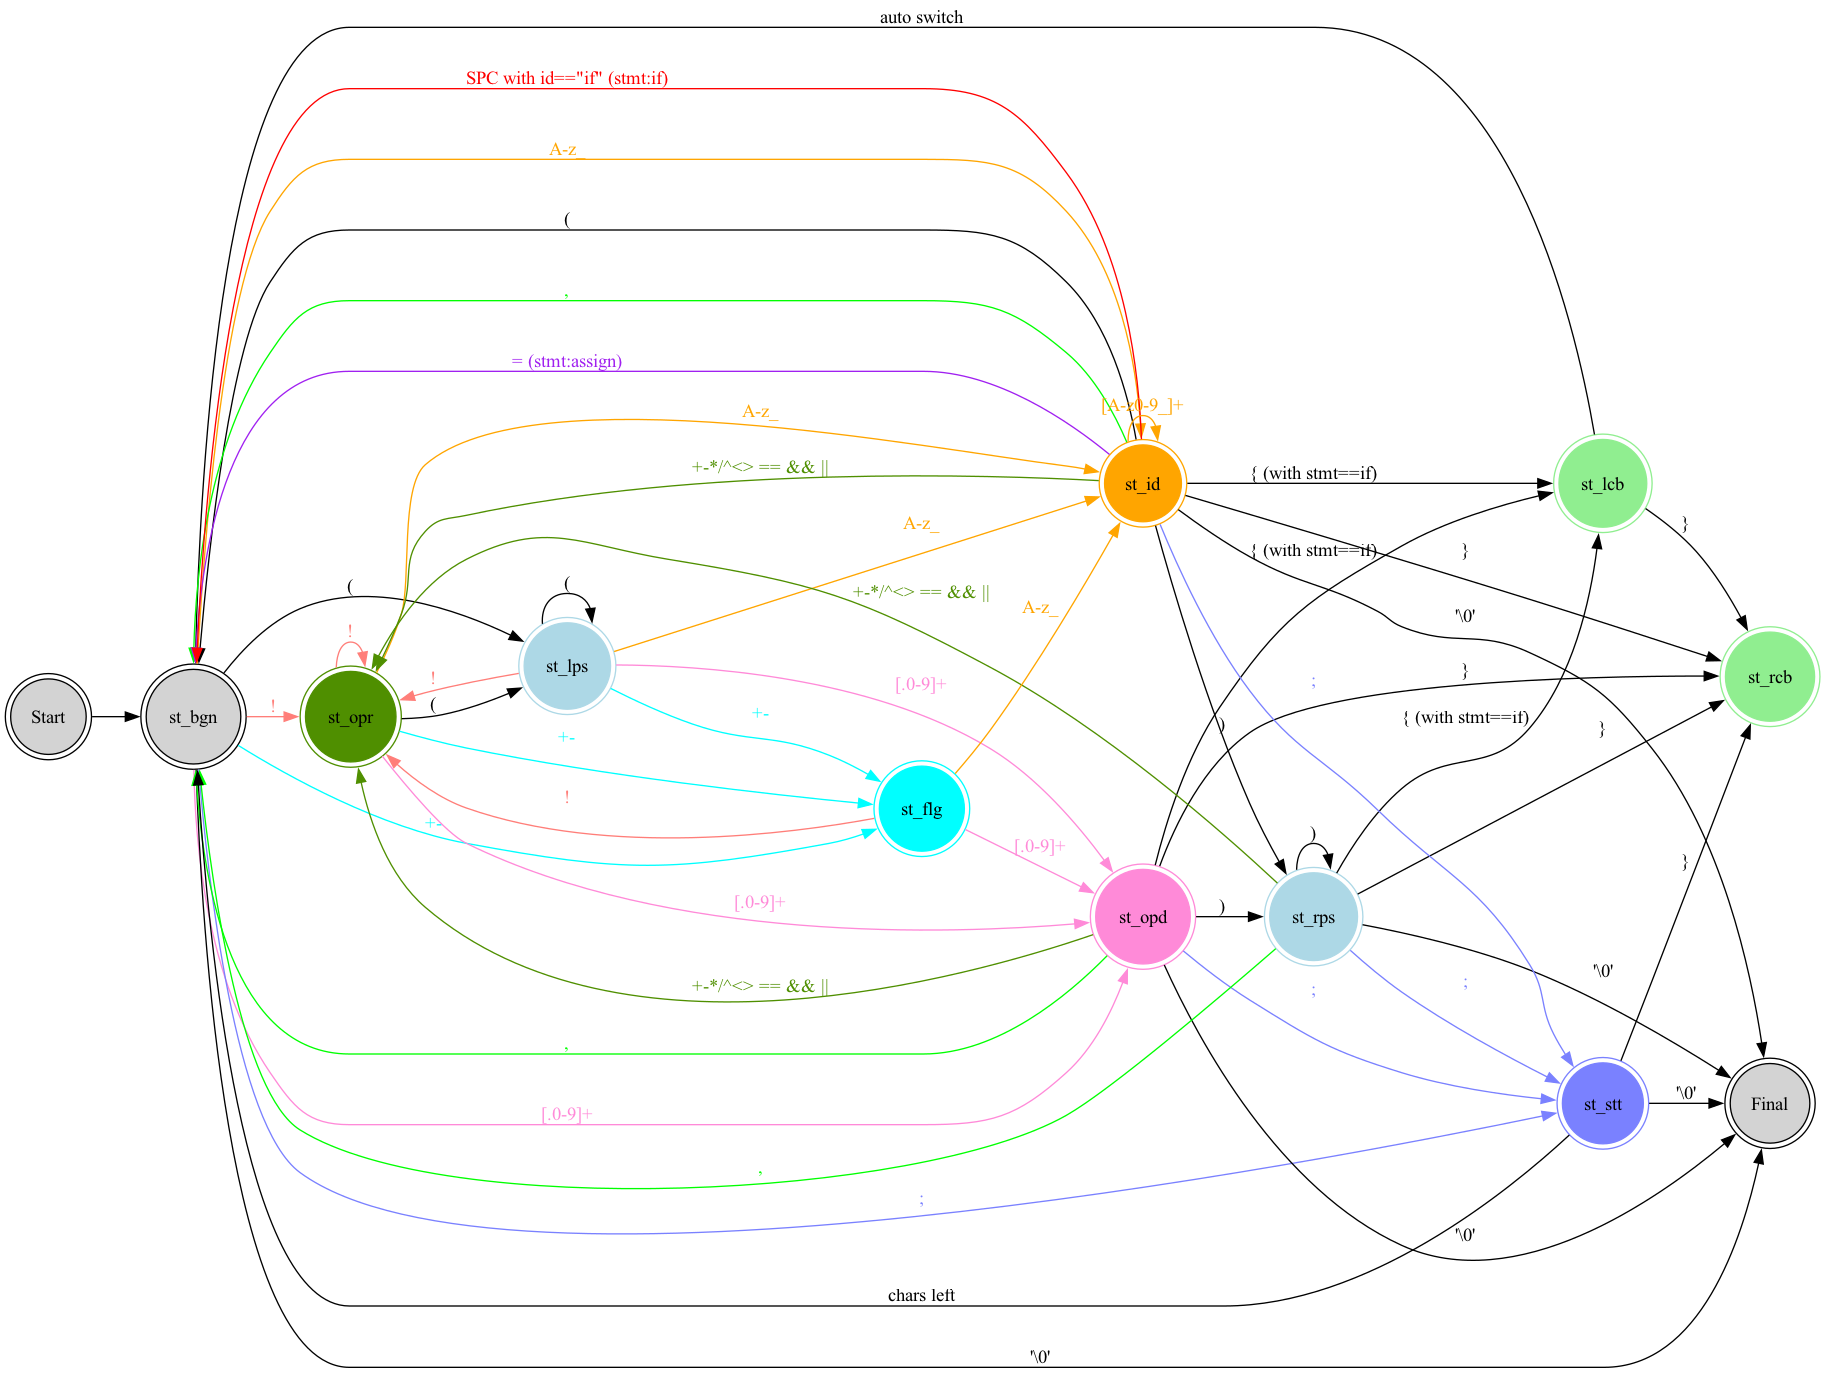
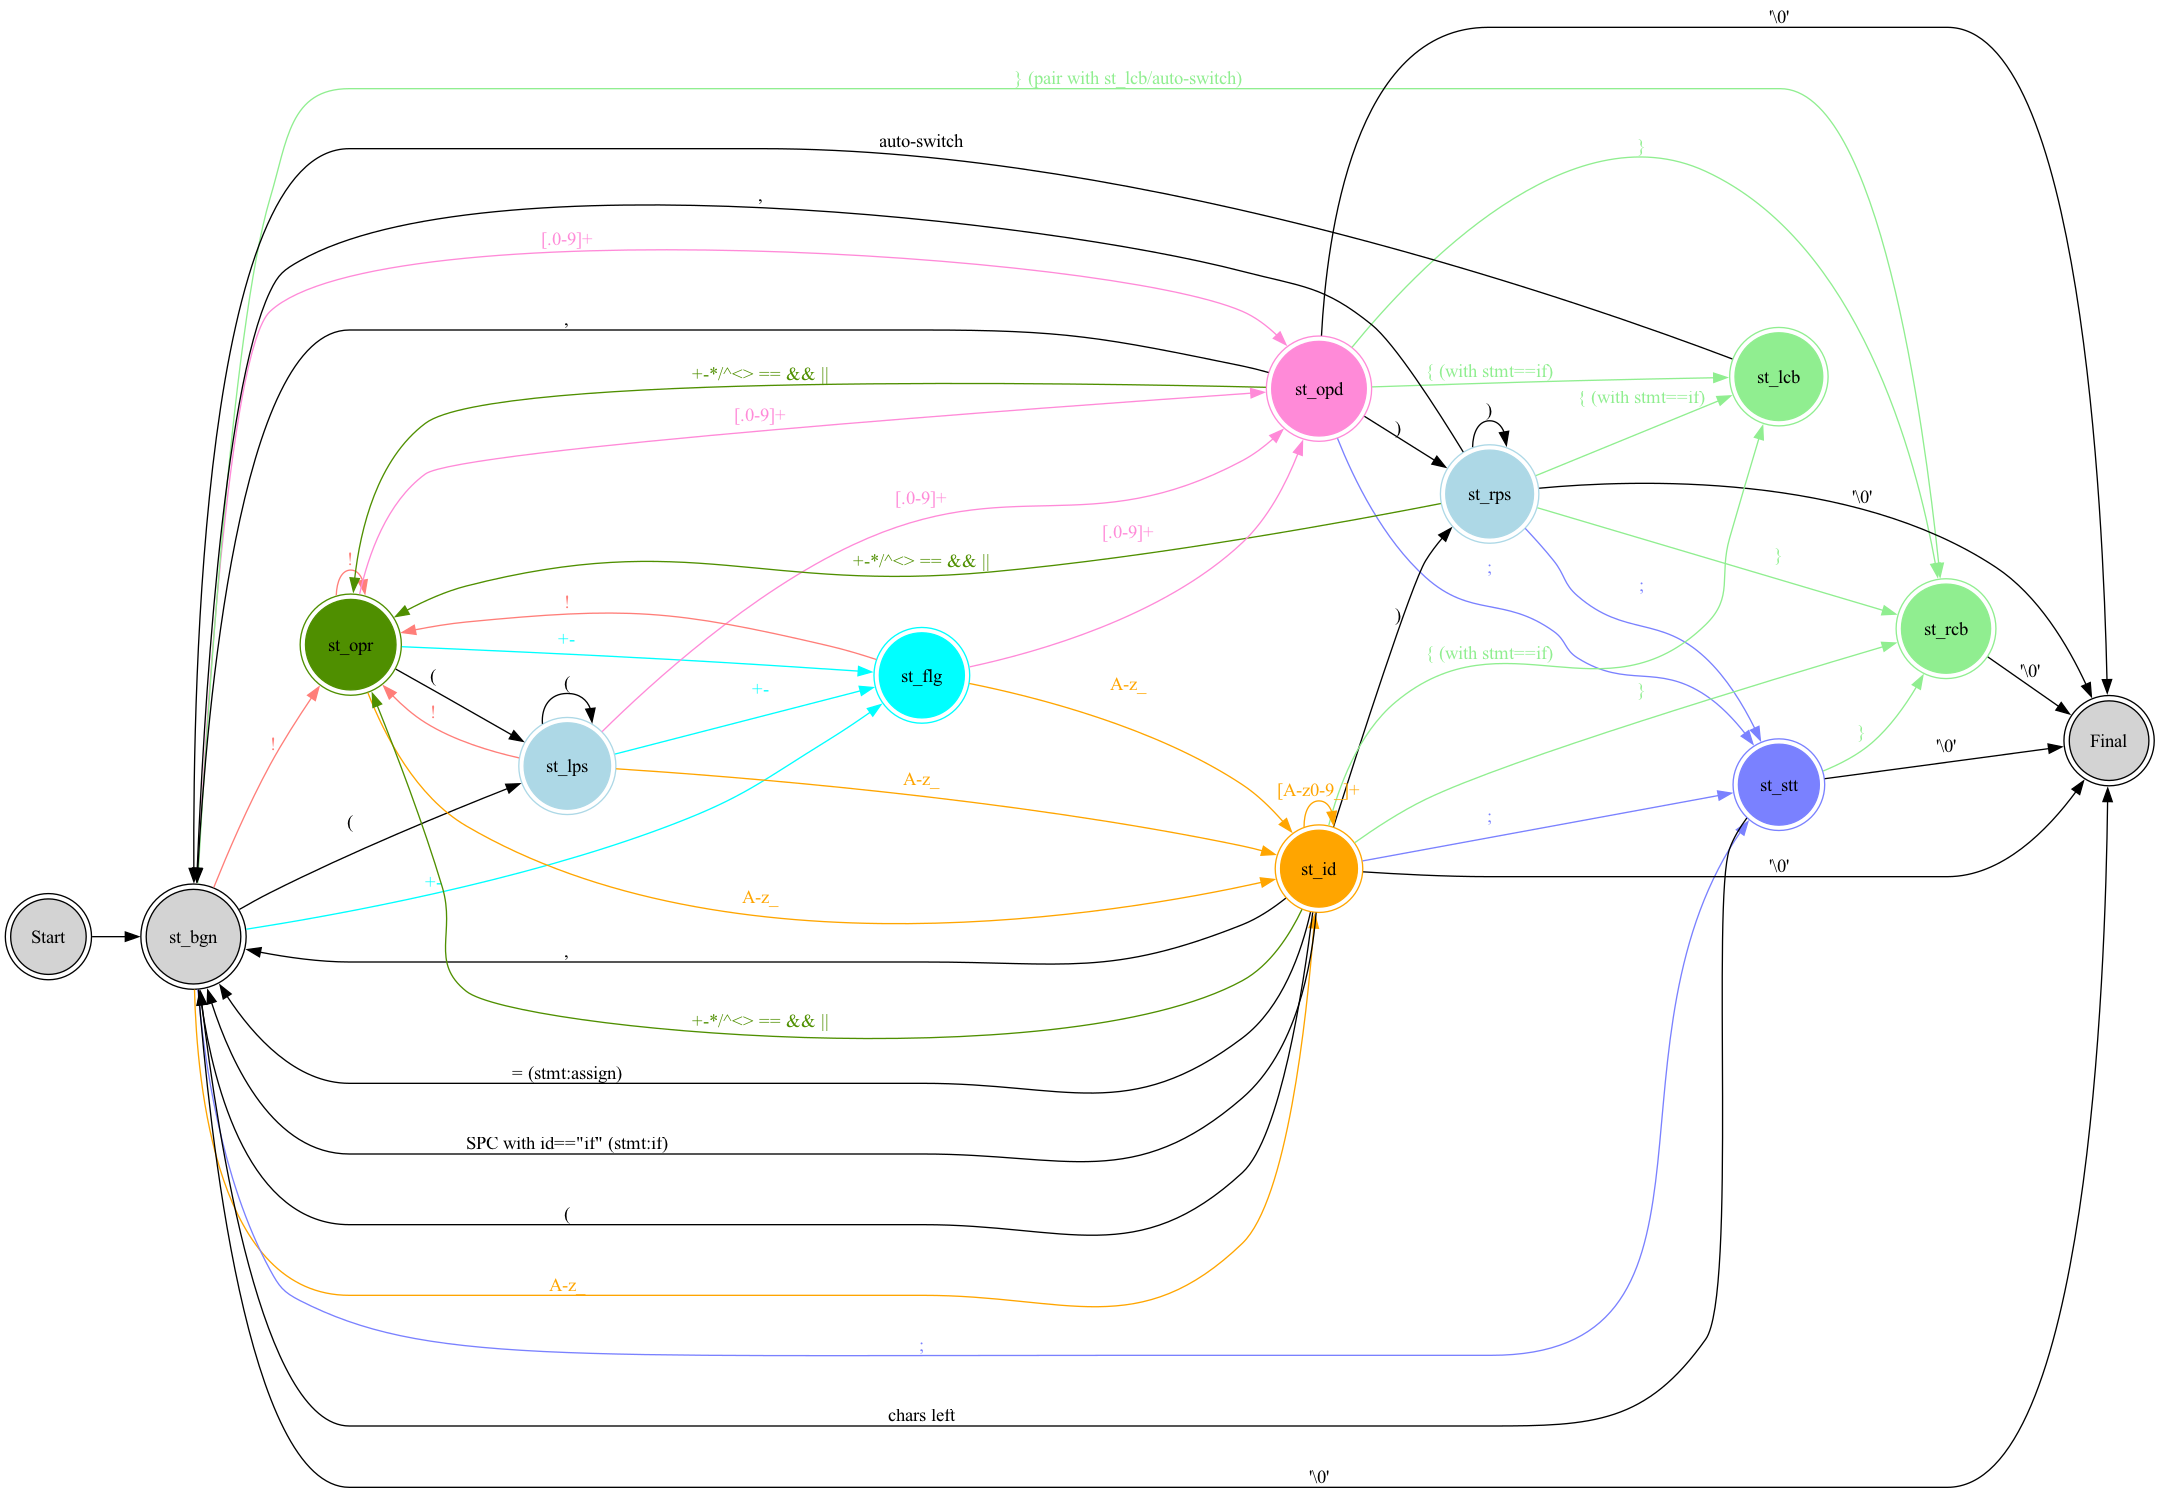
store: #if if cond {}.

diff --git a/arithmetic_expression.cc b/arithmetic_expression.cc
@@ -72,6 +72,7 @@ ArithmeticExpression::m_state_info[] = {
     {ST_IDF, "ST_IDF"},
     {ST_UNC, "ST_UNC(ertain)"},
     {ST_LCB, "ST_LCB"},
+    {ST_RCB, "ST_RCB"},
     {ST_ERR, "ST_ERR"},
     {ST_STT, "ST_STT"},         // statement terminal
     // to add
@@ -89,14 +90,15 @@ ArithmeticExpression::m_state_table[ST_UPPER][CT_UPPER] = {
     // //    the second item is the type of process action of the transition                     //
     ///////////////////////////////////////////////////////////////////////////////////////////////
     // Code:
-    //              CT_WHITESPACE     CT_OP             CT_NUM            CT_LP             CT_RP             CT_FLG            CT_ALP            CT_COMMA            CT_SEMICOLON            CT_SYMBOL_EQUAL           CT_SYMBOL_AMPERSAND            CT_SYMBOL_VBAR            CT_EXCLAMATION            CT_LCB
-    /* ST_BGN */ {{AT_NON, ST_BGN}, {AT_ERR, ST_ERR}, {AT_OPD, ST_OPD}, {AT_LPS, ST_LPS}, {AT_ERR, ST_ERR}, {AT_FLG, ST_FLG}, {AT_ALP, ST_IDF}, {AT_ERR, ST_ERR},   {AT_SEMICOLON, ST_STT}, {AT_ERR, ST_ERR},          {AT_ERR, ST_ERR},              {AT_ERR, ST_ERR},         {AT_EXCLAMATION, ST_OPR}, {AT_ERR, ST_ERR}},
-    /* ST_OPR */ {{AT_NON, ST_OPR}, {AT_ERR, ST_ERR}, {AT_OPD, ST_OPD}, {AT_LPS, ST_LPS}, {AT_ERR, ST_ERR}, {AT_FLG, ST_FLG}, {AT_ALP, ST_IDF}, {AT_ERR, ST_ERR},   {AT_ERR, ST_ERR},       {AT_ERR, ST_ERR},          {AT_ERR, ST_ERR},              {AT_ERR, ST_ERR},         {AT_EXCLAMATION, ST_OPR}, {AT_ERR, ST_ERR}},
-    /* ST_OPD */ {{AT_NON, ST_OPD}, {AT_OPR, ST_OPR}, {AT_ERR, ST_ERR}, {AT_ERR, ST_ERR}, {AT_RPS, ST_RPS}, {AT_OPR, ST_OPR}, {AT_ERR, ST_ERR}, {AT_COMMA, ST_BGN}, {AT_SEMICOLON, ST_STT}, {AT_SYMBOL_EQUAL, ST_UNC}, {AT_SYMBOL_AMPERSAND, ST_UNC}, {AT_SYMBOL_VBAR, ST_UNC}, {AT_ERR, ST_ERR},         {AT_LCB, ST_LCB}},
-    /* ST_LPS */ {{AT_NON, ST_LPS}, {AT_ERR, ST_ERR}, {AT_OPD, ST_OPD}, {AT_LPS, ST_LPS}, {AT_ERR, ST_ERR}, {AT_FLG, ST_FLG}, {AT_ALP, ST_IDF}, {AT_ERR, ST_ERR},   {AT_ERR, ST_ERR},       {AT_ERR, ST_ERR},          {AT_ERR, ST_ERR},              {AT_ERR, ST_ERR},         {AT_EXCLAMATION, ST_OPR}, {AT_ERR, ST_ERR}},
-    /* ST_RPS */ {{AT_NON, ST_RPS}, {AT_OPR, ST_OPR}, {AT_ERR, ST_ERR}, {AT_ERR, ST_ERR}, {AT_RPS, ST_RPS}, {AT_ERR, ST_ERR}, {AT_ERR, ST_ERR}, {AT_COMMA, ST_BGN}, {AT_SEMICOLON, ST_STT}, {AT_SYMBOL_EQUAL, ST_UNC}, {AT_SYMBOL_AMPERSAND, ST_UNC}, {AT_SYMBOL_VBAR, ST_UNC}, {AT_ERR, ST_ERR},         {AT_LCB, ST_LCB}},
-    /* ST_FLG */ {{AT_ERR, ST_ERR}, {AT_ERR, ST_ERR}, {AT_OPD, ST_OPD}, {AT_ERR, ST_ERR}, {AT_ERR, ST_ERR}, {AT_ERR, ST_ERR}, {AT_ALP, ST_IDF}, {AT_ERR, ST_ERR},   {AT_ERR, ST_ERR},       {AT_ERR, ST_ERR},          {AT_ERR, ST_ERR},              {AT_ERR, ST_ERR},         {AT_EXCLAMATION, ST_OPR}, {AT_ERR, ST_ERR}},
-    /* ST_IDF */ {{AT_SPC, ST_UNC}, {AT_OPR, ST_OPR}, {AT_ALP, ST_IDF}, {AT_LPS, ST_BGN}, {AT_RPS, ST_RPS}, {AT_FLG, ST_FLG}, {AT_ALP, ST_IDF}, {AT_COMMA, ST_BGN}, {AT_SEMICOLON, ST_STT}, {AT_SYMBOL_EQUAL, ST_UNC}, {AT_SYMBOL_AMPERSAND, ST_UNC}, {AT_SYMBOL_VBAR, ST_UNC}, {AT_ERR, ST_ERR},         {AT_LCB, ST_LCB}},
+    //             CT_WHITESPACE     CT_OP             CT_NUM            CT_LP             CT_RP             CT_FLG            CT_ALP            CT_COMMA            CT_SEMICOLON ;          CT_SYMBOL_EQUAL =          CT_SYMBOL_AMPERSAND &          CT_SYMBOL_VBAR |          CT_EXCLAMATION !          CT_LCB {          CT_RCB }
+    /* ST_BGN */ {{AT_NON, ST_BGN}, {AT_ERR, ST_ERR}, {AT_OPD, ST_OPD}, {AT_LPS, ST_LPS}, {AT_ERR, ST_ERR}, {AT_FLG, ST_FLG}, {AT_ALP, ST_IDF}, {AT_ERR, ST_ERR},   {AT_SEMICOLON, ST_STT}, {AT_ERR, ST_ERR},          {AT_ERR, ST_ERR},              {AT_ERR, ST_ERR},         {AT_EXCLAMATION, ST_OPR}, {AT_ERR, ST_ERR}, {AT_RCB, ST_RCB}},
+    /* ST_OPR */ {{AT_NON, ST_OPR}, {AT_ERR, ST_ERR}, {AT_OPD, ST_OPD}, {AT_LPS, ST_LPS}, {AT_ERR, ST_ERR}, {AT_FLG, ST_FLG}, {AT_ALP, ST_IDF}, {AT_ERR, ST_ERR},   {AT_ERR, ST_ERR},       {AT_ERR, ST_ERR},          {AT_ERR, ST_ERR},              {AT_ERR, ST_ERR},         {AT_EXCLAMATION, ST_OPR}, {AT_ERR, ST_ERR}, {AT_ERR, ST_ERR}},
+    /* ST_OPD */ {{AT_NON, ST_OPD}, {AT_OPR, ST_OPR}, {AT_ERR, ST_ERR}, {AT_ERR, ST_ERR}, {AT_RPS, ST_RPS}, {AT_OPR, ST_OPR}, {AT_ERR, ST_ERR}, {AT_COMMA, ST_BGN}, {AT_SEMICOLON, ST_STT}, {AT_SYMBOL_EQUAL, ST_UNC}, {AT_SYMBOL_AMPERSAND, ST_UNC}, {AT_SYMBOL_VBAR, ST_UNC}, {AT_ERR, ST_ERR},         {AT_LCB, ST_LCB}, {AT_RCB, ST_RCB}},
+    /* ST_LPS */ {{AT_NON, ST_LPS}, {AT_ERR, ST_ERR}, {AT_OPD, ST_OPD}, {AT_LPS, ST_LPS}, {AT_ERR, ST_ERR}, {AT_FLG, ST_FLG}, {AT_ALP, ST_IDF}, {AT_ERR, ST_ERR},   {AT_ERR, ST_ERR},       {AT_ERR, ST_ERR},          {AT_ERR, ST_ERR},              {AT_ERR, ST_ERR},         {AT_EXCLAMATION, ST_OPR}, {AT_ERR, ST_ERR}, {AT_ERR, ST_ERR}},
+    /* ST_RPS */ {{AT_NON, ST_RPS}, {AT_OPR, ST_OPR}, {AT_ERR, ST_ERR}, {AT_ERR, ST_ERR}, {AT_RPS, ST_RPS}, {AT_ERR, ST_ERR}, {AT_ERR, ST_ERR}, {AT_COMMA, ST_BGN}, {AT_SEMICOLON, ST_STT}, {AT_SYMBOL_EQUAL, ST_UNC}, {AT_SYMBOL_AMPERSAND, ST_UNC}, {AT_SYMBOL_VBAR, ST_UNC}, {AT_ERR, ST_ERR},         {AT_LCB, ST_LCB}, {AT_RCB, ST_RCB}},
+    /* ST_FLG */ {{AT_ERR, ST_ERR}, {AT_ERR, ST_ERR}, {AT_OPD, ST_OPD}, {AT_ERR, ST_ERR}, {AT_ERR, ST_ERR}, {AT_ERR, ST_ERR}, {AT_ALP, ST_IDF}, {AT_ERR, ST_ERR},   {AT_ERR, ST_ERR},       {AT_ERR, ST_ERR},          {AT_ERR, ST_ERR},              {AT_ERR, ST_ERR},         {AT_EXCLAMATION, ST_OPR}, {AT_ERR, ST_ERR}, {AT_ERR, ST_ERR}},
+    /* ST_IDF */ {{AT_SPC, ST_UNC}, {AT_OPR, ST_OPR}, {AT_ALP, ST_IDF}, {AT_LPS, ST_BGN}, {AT_RPS, ST_RPS}, {AT_FLG, ST_FLG}, {AT_ALP, ST_IDF}, {AT_COMMA, ST_BGN}, {AT_SEMICOLON, ST_STT}, {AT_SYMBOL_EQUAL, ST_UNC}, {AT_SYMBOL_AMPERSAND, ST_UNC}, {AT_SYMBOL_VBAR, ST_UNC}, {AT_ERR, ST_ERR},         {AT_LCB, ST_LCB}, {AT_RCB, ST_RCB}},
+    /* ST_LCB */ {{AT_NON, ST_LCB}, {AT_ERR, ST_ERR}, {AT_OPD, ST_OPD}, {AT_LPS, ST_BGN}, {AT_ERR, ST_ERR}, {AT_FLG, ST_FLG}, {AT_ALP, ST_IDF}, {AT_ERR, ST_ERR},   {AT_SEMICOLON, ST_STT}, {AT_ERR, ST_ERR},          {AT_ERR, ST_ERR},              {AT_ERR, ST_ERR},         {AT_ERR, ST_ERR},         {AT_LCB, ST_LCB}, {AT_NON, ST_UNC}},
 };
 
 ArithmeticExpression::FunctionMeta
@@ -206,6 +208,7 @@ bool ArithmeticExpression::handleAction(ActionType type, char c)
     case AT_SYMBOL_VBAR: rc = handleSymbolVbar(); break;
     case AT_EXCLAMATION: rc = handleExclamation(); break;
     case AT_LCB: rc = handleLeftCurlyBrace(); break;
+    case AT_RCB: rc = handleRightCurlyBrace(); break;
     case AT_ERR: rc = handleError(); break;
     default:
         print("no handler found for action type:%d", type);
@@ -257,6 +260,7 @@ CharType ArithmeticExpression::getCharType(int c) {
     if ( '|' == c) return CT_SYMBOL_VBAR;
     if ( '!' == c) return CT_EXCLAMATION;
     if ( '{' == c) return CT_LCB;
+    if ( '}' == c) return CT_RCB;
     return CT_UPPER;
 }
 
@@ -295,10 +299,11 @@ void ArithmeticExpression::dia(const std::string& marker) {
     for (const auto& item : m_id_map) {
         __print(" m_id_map[\"%s\"]=%f ", item.first.c_str(), item.second);
     }
-    __print(" m_id = \"%s\" m_id_spc_occurred = %s m_lp_count = %d m_stmt = %d m_result = %g m_state_next_certained = %s rpn = \"%s\"\n",
+    __print(" m_id = \"%s\" m_id_spc_occurred = %s m_lp_count = %d m_lcb_count = %d m_stmt = %d m_result = %g m_state_next_certained = %s rpn = \"%s\"\n",
             m_id.c_str(),
             m_id_spc_occurred?"true":"false",
             m_lp_count,
+            m_lcb_count,
             m_stmt,
             m_result,
             getStateStr(m_state_next_certained),
@@ -427,7 +432,7 @@ bool ArithmeticExpression::handleOperator(char opr)
 bool ArithmeticExpression::handleError()
 {
     dia("-handleError");
-    error("error occurs pos=\"%d\", c='%c', raw=\"%s\"",
+    error("invalid syntax error: pos=\"%d\", c='%c', raw=\"%s\"",
           m_parse_pos,
           m_arithmetic_expression[m_parse_pos],
           m_arithmetic_expression.c_str());
@@ -798,6 +803,7 @@ bool ArithmeticExpression::handleExclamation() {
 
 bool ArithmeticExpression::handleLeftCurlyBrace() {
     print("TODO handleLeftCurlyBrace");
+
     ++m_lcb_count;
     m_state_next_certained = ST_BGN;
 
@@ -805,14 +811,67 @@ bool ArithmeticExpression::handleLeftCurlyBrace() {
         // TODO: check condition is true or false
         double top = m_operand_stack.pop();
         if (top != 0) {
+            m_stmt = STMT_IF_BLOCK;
             print("TODO: to process if-block");
         } else {
-            print("TODO: ignore if-block");
+            print("TODO: to ignore if-block, just skip to balanced '}', no syntax check for skipped content");
+            if (!findBalancedRightCurlyBraceAndSkipToIt()) {
+                error("no balanced } found");
+                return false;
+            }
         }
-        // TODO
-
-        m_stmt = STMT_IF_BLOCK;
     }
+    return true;
+}
+
+bool ArithmeticExpression::findBalancedRightCurlyBraceAndSkipToIt() {
+    int size = m_arithmetic_expression.size();
+    int n_skiped_lcb = 0;
+    bool found = false;
+
+    // starting from next char right after current '{'
+    while (++m_parse_pos < size) {
+        const char& c = m_arithmetic_expression.at(m_parse_pos);
+        print("findBalancedRightCurlyBraceAndSkipToIt: c='%c'", c);
+
+        switch(c) {
+        case '{': ++n_skiped_lcb; break;
+        case '}': --n_skiped_lcb; break;
+        default: break;
+        }
+        if (n_skiped_lcb == -1) { // balanced } for starting '{' found
+            print("balanced } found");
+            dia("balanced-}-found");
+            found = true;
+            break;
+        }
+    }
+
+    if (found) {
+        print("findBalancedRightCurlyBraceAndSkipToIt: } found:%d", (int)found);
+        --m_parse_pos;          // restore '}', so parse get chance to process it
+    }
+
+    return found;
+}
+
+bool ArithmeticExpression::handleRightCurlyBrace() {
+    print("TODO handleRightCurlyBrace");
+    if (m_lcb_count == 0) {
+        error("no balanced left curly brace found");
+        return false;
+    }
+    --m_lcb_count;
+
+    // chars left, goto st_bgn
+    if (m_state == ST_STT && m_parse_pos < m_arithmetic_expression.size()-1) {
+        m_state = ST_BGN;
+        // extra: reset m_result;
+        m_result = NAN;
+    }
+
+    m_stmt = STMT_NON;
+
     return true;
 }
 
@@ -1085,7 +1144,7 @@ bool ArithmeticExpression::calculate(int opr)
         }
         case PRINTID: {
             // TODO: check conditon fit
-            printf("PRINTID: key=\"%s\", value=%g\n ", m_id.c_str(), m_id_map[m_id]);
+            printf("PRINTID: key=\"%s\", value=%g\n", m_id.c_str(), m_id_map[m_id]);
             break;
         }
         case RESULT: {
